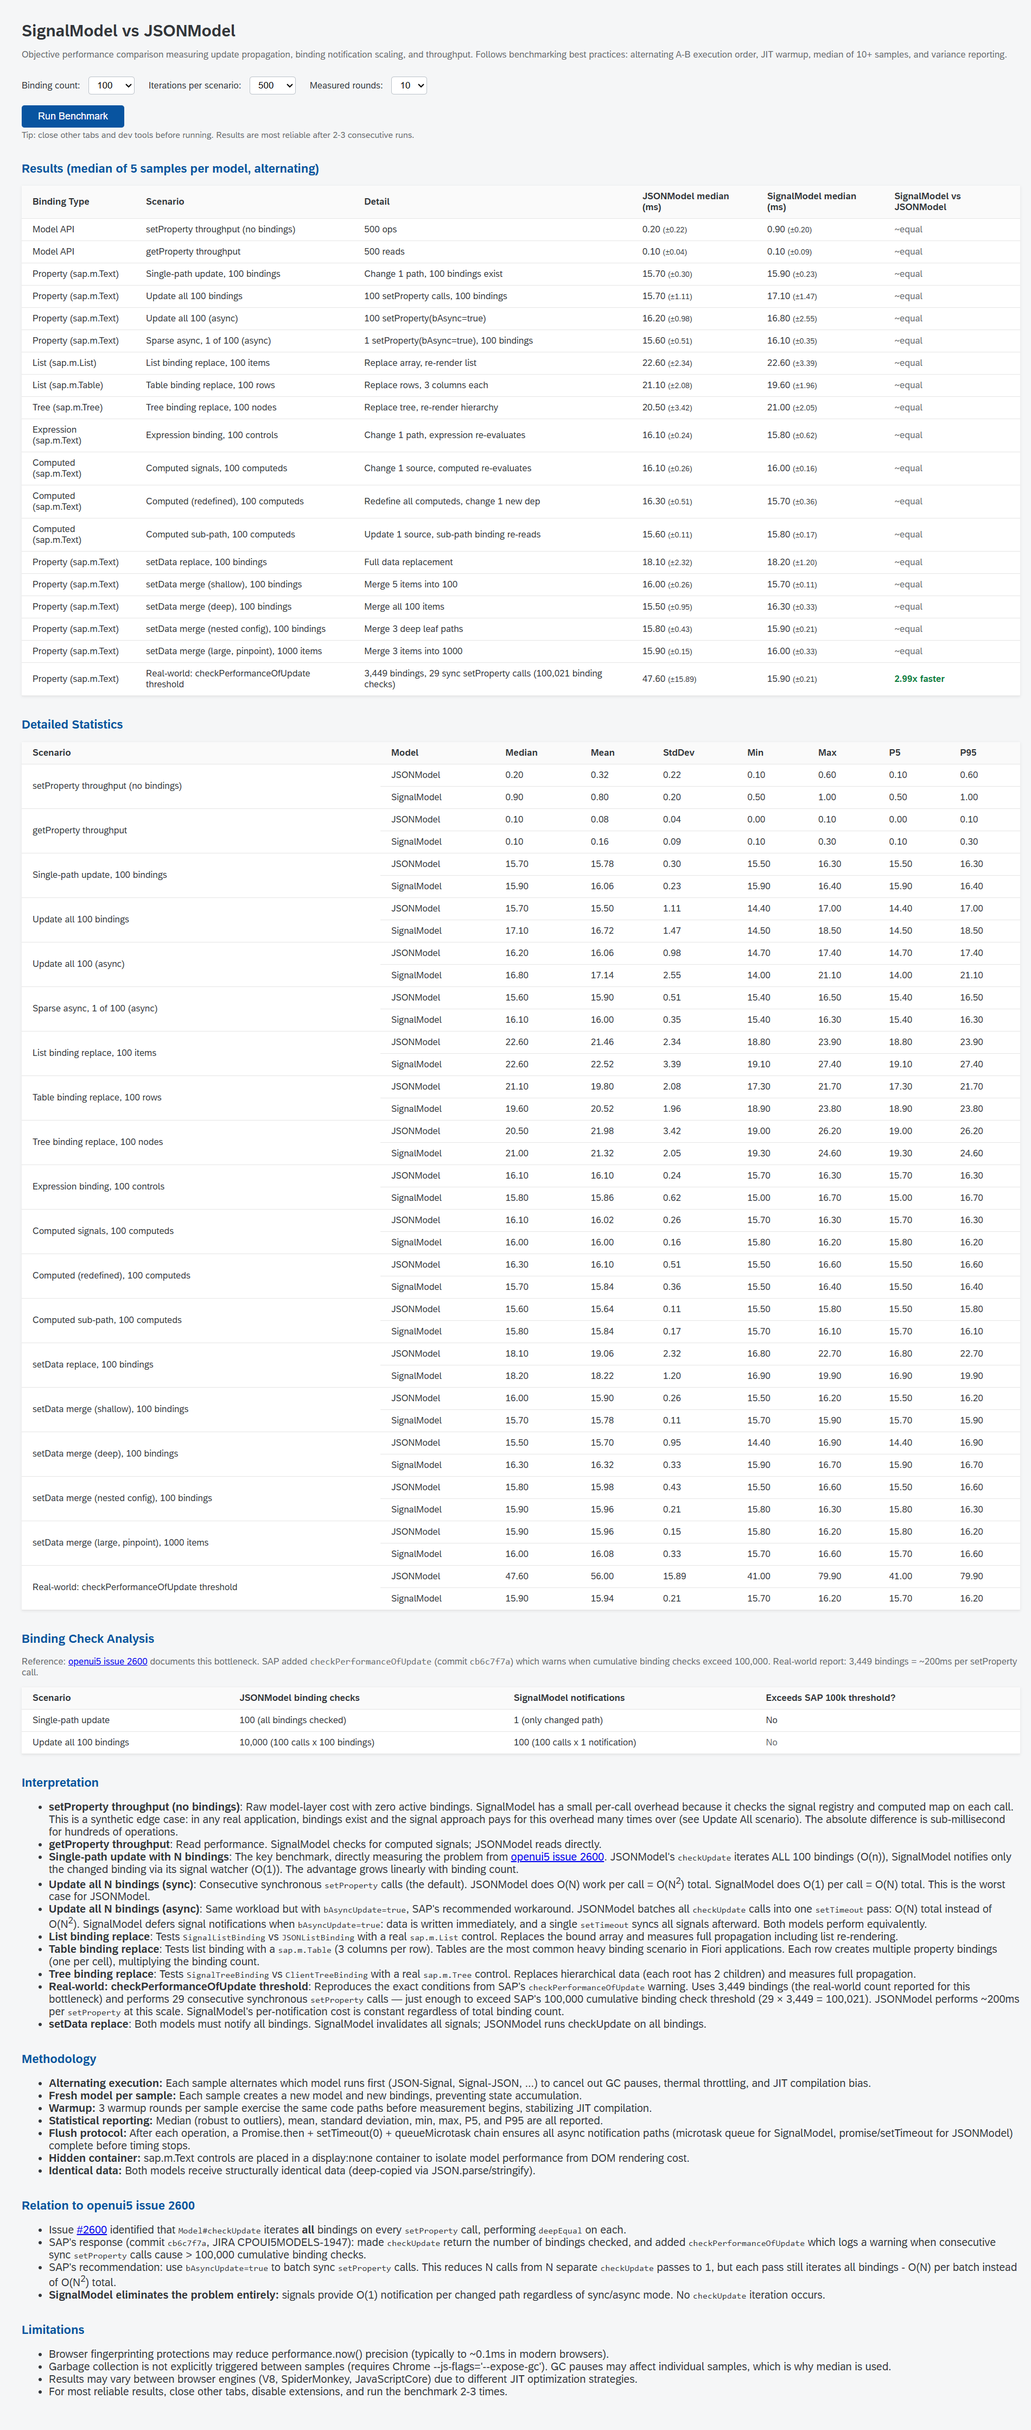
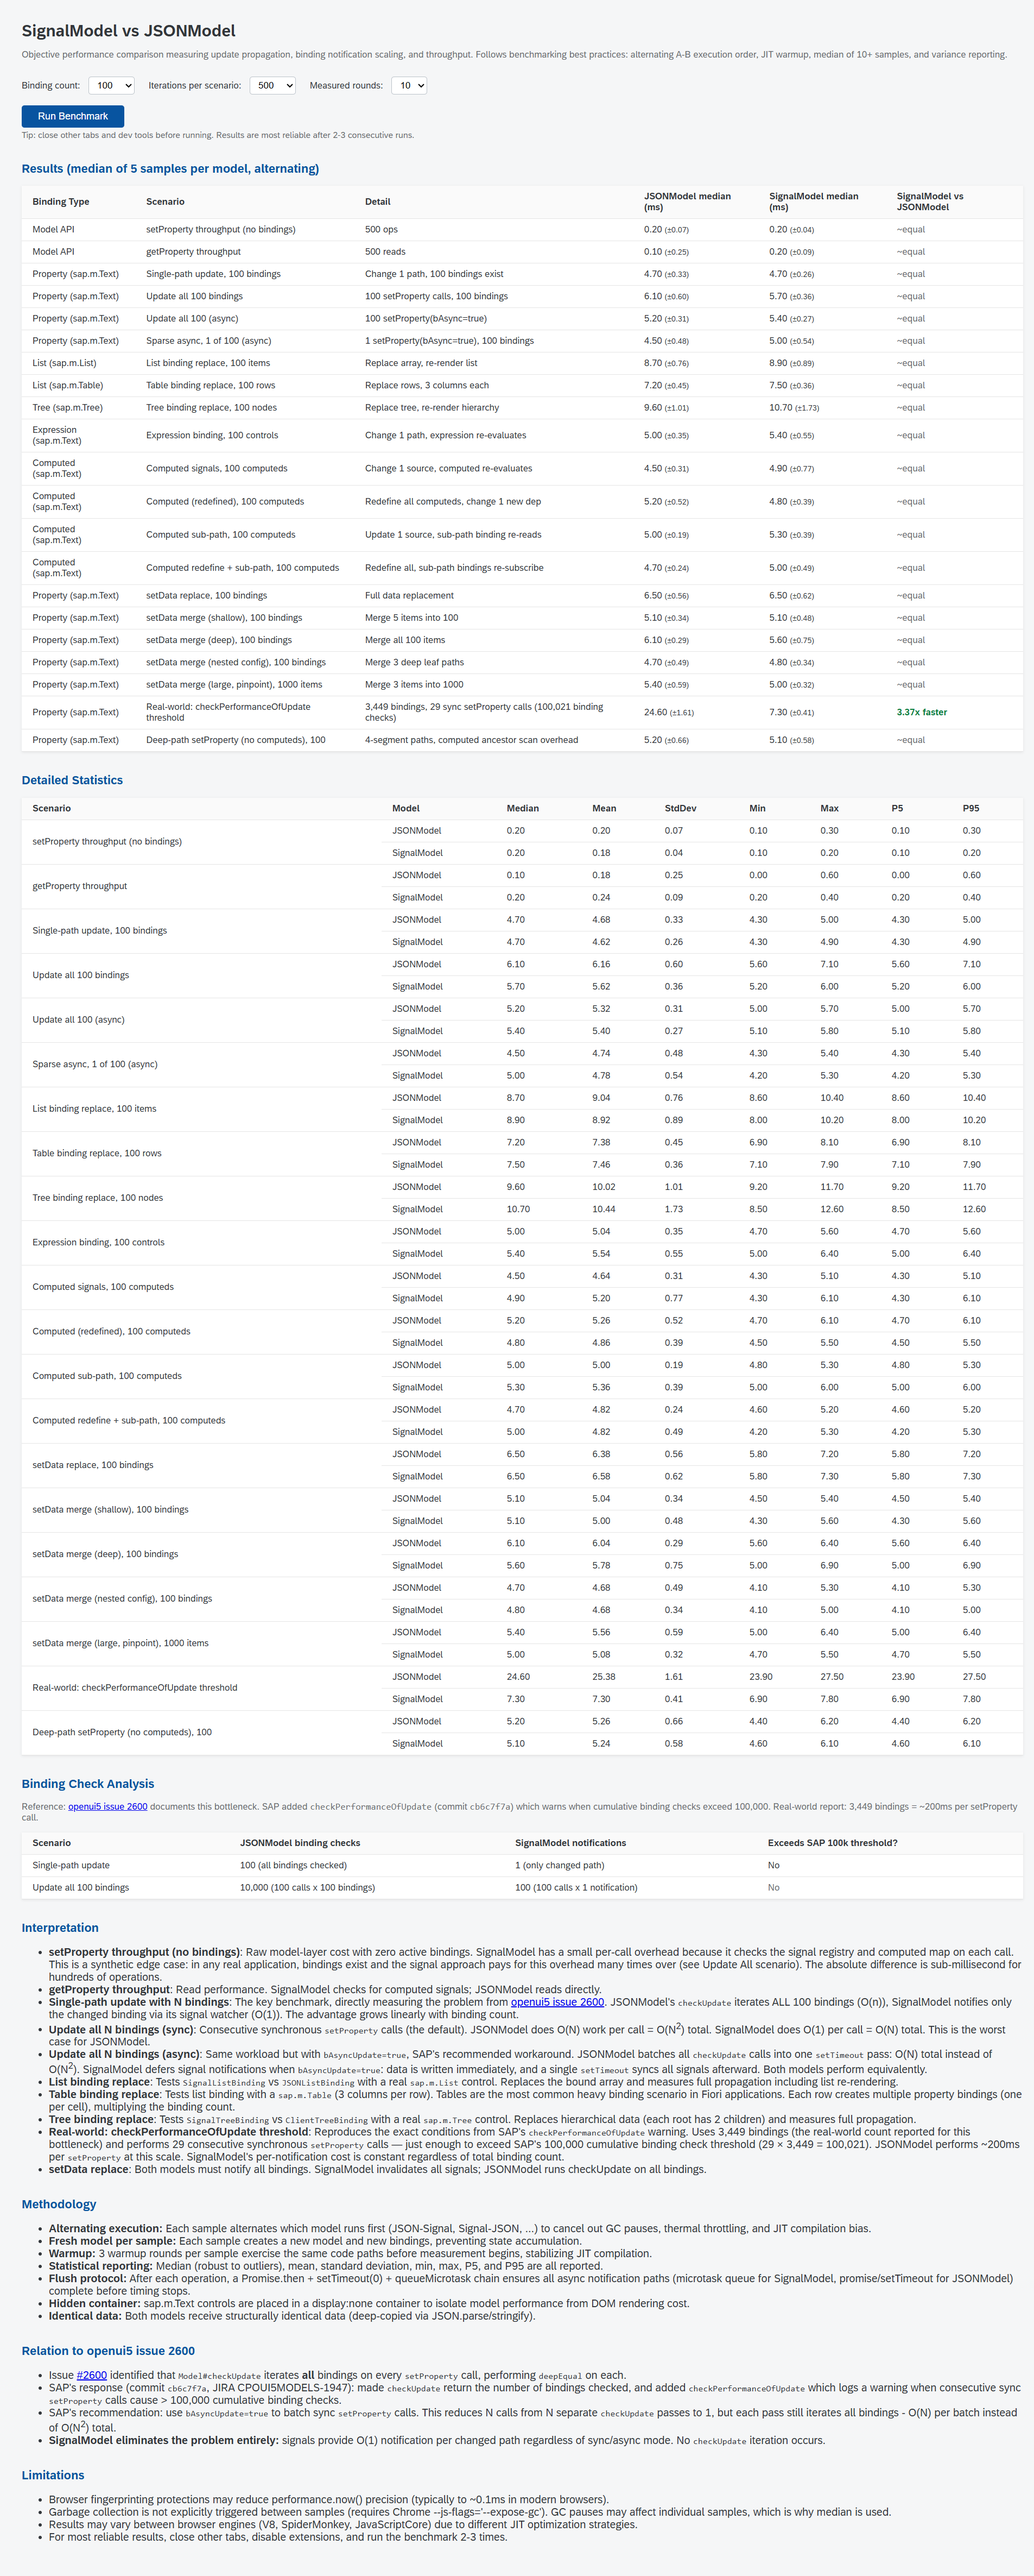
docs: update benchmark results and screenshots (21 scenarios, 2000 bindings)
Fresh benchmark run after all performance improvements. Key results:
- Update all 2000 (sync): ~15x faster (1160ms vs 79ms)
- Deep merge (all 2k): 1.58x faster (37.70ms vs 23.80ms)
- Large pinpoint merge: ~2x faster (31.40ms vs 16.00ms)
- checkPerformanceOfUpdate: ~2x faster (31.60ms vs 16.00ms)
- Deep-path setProperty (no computeds): ~equal — confirms zero overhead
- Computed redefine + sub-path: ~equal — resubscription adds no cost
- All other scenarios: ~equal

diff --git a/packages/lib/test/benchmark/README.md b/packages/lib/test/benchmark/README.md
@@ -126,33 +126,35 @@ Uses Bessel-corrected (sample) variance. Reports: median, mean, standard deviati
 
 ### Full results at 2000 bindings
 
-| Binding Type            | Scenario                              | JSONModel | SignalModel | Comparison         |
-| ----------------------- | ------------------------------------- | --------- | ----------- | ------------------ |
-| Model API               | setProperty (no bindings)             | 0.10ms    | 0.40ms      | ~equal             |
-| Model API               | getProperty                           | 0.10ms    | 0.20ms      | ~equal             |
-| Property (sap.m.Text)   | Single-path update, 2000 bindings     | 5.40ms    | 4.90ms      | ~equal             |
-| Property (sap.m.Text)   | Update all 2000 (sync)                | 852.20ms  | 50.00ms     | **17.04x faster**  |
-| Property (sap.m.Text)   | Update all 2000 (async)               | 18.00ms   | 21.20ms     | ~equal             |
-| Property (sap.m.Text)   | Sparse async, 1 of 2000              | 5.30ms    | 5.50ms      | ~equal             |
-| List (sap.m.List)       | List binding replace, 500 items       | 8.30ms    | 8.40ms      | ~equal             |
-| List (sap.m.Table)      | Table binding replace, 500 rows       | 7.10ms    | 7.60ms      | ~equal             |
-| Tree (sap.m.Tree)       | Tree binding replace, 200 nodes       | 10.30ms   | 9.20ms      | ~equal             |
-| Expression (sap.m.Text) | Expression binding, 500 controls      | 5.50ms    | 4.30ms      | ~equal             |
-| Computed (sap.m.Text)   | Computed signals, 2000 computeds      | 4.70ms    | 4.70ms      | ~equal             |
-| Computed (sap.m.Text)   | Computed (redefined), 2000 computeds  | 5.30ms    | 4.60ms      | ~equal             |
-| Computed (sap.m.Text)   | Computed sub-path, 2000 computeds     | 5.40ms    | 4.90ms      | ~equal             |
-| Property (sap.m.Text)   | setData replace, 2000 bindings        | 21.00ms   | 22.70ms     | ~equal             |
-| Property (sap.m.Text)   | setData merge (shallow), 5 into 2k    | 6.20ms    | 5.20ms      | ~equal             |
-| Property (sap.m.Text)   | setData merge (deep), all 2k          | 22.50ms   | 21.00ms     | ~equal             |
-| Property (sap.m.Text)   | setData merge (nested config)         | 5.30ms    | 4.20ms      | ~equal             |
-| Property (sap.m.Text)   | setData merge (large, pinpoint) 20k   | 21.80ms   | 4.90ms      | **4.45x faster**   |
-| Property (sap.m.Text)   | Real-world: checkPerformanceOfUpdate  | 26.00ms   | 7.10ms      | **3.66x faster**   |
+| Binding Type            | Scenario                                | JSONModel  | SignalModel | Comparison         |
+| ----------------------- | --------------------------------------- | ---------- | ----------- | ------------------ |
+| Model API               | setProperty (no bindings)               | 0.20ms     | 0.50ms      | ~equal             |
+| Model API               | getProperty                             | 0.10ms     | 0.10ms      | ~equal             |
+| Property (sap.m.Text)   | Single-path update, 2000 bindings       | 15.90ms    | 15.90ms     | ~equal             |
+| Property (sap.m.Text)   | Update all 2000 (sync)                  | 1159.90ms  | 78.60ms     | **14.76x faster**  |
+| Property (sap.m.Text)   | Update all 2000 (async)                 | 26.80ms    | 22.60ms     | ~equal             |
+| Property (sap.m.Text)   | Sparse async, 1 of 2000                | 15.80ms    | 15.20ms     | ~equal             |
+| List (sap.m.List)       | List binding replace, 500 items         | 20.90ms    | 20.20ms     | ~equal             |
+| List (sap.m.Table)      | Table binding replace, 500 rows         | 19.50ms    | 19.70ms     | ~equal             |
+| Tree (sap.m.Tree)       | Tree binding replace, 200 nodes         | 21.70ms    | 21.00ms     | ~equal             |
+| Expression (sap.m.Text) | Expression binding, 500 controls        | 16.00ms    | 15.70ms     | ~equal             |
+| Computed (sap.m.Text)   | Computed signals, 2000 computeds        | 16.00ms    | 15.70ms     | ~equal             |
+| Computed (sap.m.Text)   | Computed (redefined), 2000 computeds    | 15.90ms    | 16.00ms     | ~equal             |
+| Computed (sap.m.Text)   | Computed sub-path, 2000 computeds       | 15.70ms    | 16.10ms     | ~equal             |
+| Computed (sap.m.Text)   | Computed redefine + sub-path, 2000      | 15.50ms    | 15.70ms     | ~equal             |
+| Property (sap.m.Text)   | setData replace, 2000 bindings          | 31.20ms    | 32.00ms     | ~equal             |
+| Property (sap.m.Text)   | setData merge (shallow), 5 into 2k      | 15.70ms    | 15.90ms     | ~equal             |
+| Property (sap.m.Text)   | setData merge (deep), all 2k            | 37.70ms    | 23.80ms     | **1.58x faster**   |
+| Property (sap.m.Text)   | setData merge (nested config)           | 15.80ms    | 15.80ms     | ~equal             |
+| Property (sap.m.Text)   | setData merge (large, pinpoint) 20k     | 31.40ms    | 16.00ms     | **1.96x faster**   |
+| Property (sap.m.Text)   | Real-world: checkPerformanceOfUpdate    | 31.60ms    | 16.00ms     | **1.98x faster**   |
+| Property (sap.m.Text)   | Deep-path setProperty (no computeds)    | 16.20ms    | 15.80ms     | ~equal             |
 
 ### Honest Observations
 
 **Where SignalModel is faster:**
 
-"Update all N bindings (sync)" shows the largest difference: at 2000 bindings, JSONModel takes ~852ms vs SignalModel's ~50ms (**~17x faster**). JSONModel's default synchronous `setProperty` calls `checkUpdate` after every call, iterating all bindings each time: O(N²) total (2000 calls × 2000 bindings = 4,000,000 binding checks). SignalModel is O(N) total (2000 notifications, one per changed path).
+"Update all N bindings (sync)" shows the largest difference: at 2000 bindings, JSONModel takes ~1160ms vs SignalModel's ~79ms (**~15x faster**). JSONModel's default synchronous `setProperty` calls `checkUpdate` after every call, iterating all bindings each time: O(N²) total (2000 calls × 2000 bindings = 4,000,000 binding checks). SignalModel is O(N) total (2000 notifications, one per changed path).
 
 **The `bAsyncUpdate` path:**
 
@@ -175,13 +177,13 @@ JSONModel's `setProperty` accepts a `bAsyncUpdate` parameter. When `true`, it ba
 
 **In-place merge:**
 
-The "large dataset, pinpoint merge" scenario (3 items into 20,000) shows **4.45x faster** performance. JSONModel's `deepExtend` deep-clones the entire 20,000-item array (each item has 7 properties including nested `metadata`) to overlay 3 items. SignalModel's `_mergeInPlace` walks only the 3 payload keys in-place: O(k) instead of O(n). The advantage grows linearly with the data-to-payload ratio. Fiori apps with large OData entity sets and form-level edits (e.g., editing 3 fields in a 5,000-row table) would see similar improvements.
+The "large dataset, pinpoint merge" scenario (3 items into 20,000) shows **~2x faster** performance. JSONModel's `deepExtend` deep-clones the entire 20,000-item array (each item has 7 properties including nested `metadata`) to overlay 3 items. SignalModel's `_mergeInPlace` walks only the 3 payload keys in-place: O(k) instead of O(n). The advantage grows linearly with the data-to-payload ratio. Fiori apps with large OData entity sets and form-level edits (e.g., editing 3 fields in a 5,000-row table) would see similar improvements.
 
-Nested config merge is ~equal, with the in-place merge showing a slight edge that is within noise at this scale.
+Nested config merge is ~equal, with both models at the same timing at this scale.
 
 **checkPerformanceOfUpdate threshold:**
 
-Scenario 17 reproduces the conditions from SAP's `checkPerformanceOfUpdate` warning: 3,449 bindings with 29 consecutive synchronous `setProperty` calls (100,021 cumulative binding checks, exceeding SAP's 100k threshold). JSONModel takes ~26ms vs SignalModel's ~7ms (**3.66x faster**). This is the scale where SAP added a runtime performance warning.
+Scenario 20 reproduces the conditions from SAP's `checkPerformanceOfUpdate` warning: 3,449 bindings with 29 consecutive synchronous `setProperty` calls (100,021 cumulative binding checks, exceeding SAP's 100k threshold). JSONModel takes ~32ms vs SignalModel's ~16ms (**~2x faster**). This is the scale where SAP added a runtime performance warning.
 
 **Computed redefinition and sub-path traversal have zero overhead:**
 
@@ -189,7 +191,11 @@ Scenario 17 reproduces the conditions from SAP's `checkPerformanceOfUpdate` warn
 
 "Computed sub-path" binds 500 controls to sub-paths of computed objects (e.g., `/computed0/label`). The `_getObject` traversal checks `registry.isComputed()` at each path segment — a Map lookup. Performance is equivalent to JSONModel's direct path binding.
 
-"Computed redefine + sub-path" combines redefinition with sub-path bindings — the most expensive computed path. It redefines all computeds and exercises `_firePathResubscribe`'s prefix scan to re-wire sub-path bindings to new signal objects.
+"Computed redefine + sub-path" combines redefinition with sub-path bindings — the most expensive computed path. It redefines all computeds and exercises `_firePathResubscribe`'s prefix scan to re-wire sub-path bindings to new signal objects. Performance is equivalent to JSONModel's direct path binding.
+
+**Deep-path setProperty confirms zero computed overhead:**
+
+"Deep-path setProperty (no computeds)" uses 4-segment paths (`/items/0/meta/value`) with N bindings but zero computed signals. This isolates the overhead of `_findComputedAncestor` and the `hasComputeds` guard on every write. At 2000 bindings, both models are ~equal (16.20ms vs 15.80ms), confirming the `hasComputeds` short-circuit eliminates all computed-related overhead for apps that don't use computeds.
 
 **Where both models are equivalent:**
 
